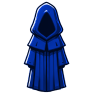
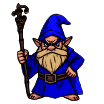
Updates

diff --git a/client/src/subgame.js b/client/src/subgame.js
@@ -10,7 +10,7 @@ const units = {
 		const p0 = verbs.meta.selected();
 		const choice = await verbs.player.choice({
 		    mark: {pos: [p0], units: [undefined], tiles: [undefined]},
-		    enable: {pos: d => d <= 999, units: d => d === 0, tiles: d => d > 0},
+		    enable: {pos: d => d > 0, units: d => d === 0, tiles: d => d > 0},
 		    options: {cancel: 'cancel'},
 		});
 
@@ -96,6 +96,7 @@ const states = {
 	    'spawn-rogue': 'rogue-spawn',
 	    'spawn-hooker': 'hooker-spawn',
 	    'spawn-shooter': 'shooter-spawn',
+	    'spawn-wizard': 'wizard-spawn',
 	};
 	const counts = new Context(options)
 	      .map(val => val.replace('spawn', ['red', 'blue'][verbs.meta.turn()]))
@@ -111,6 +112,7 @@ const states = {
 	rogue: {push: 'push', jump: 'jump', pass: 'pass'},
 	hooker: {pull: 'pull', jump: 'jump', pass: 'pass'},
 	shooter: {destroy: 'destroy', jump: 'jump', shoot: 'shoot', pass: 'pass'},
+	wizard: {destroy: 'destroy', move: 'move', swap: 'swap', jump: 'jump', pass: 'pass'},
     }),
     // -------------------------------------------------------------------------
     spawn: async ctx => {
@@ -231,6 +233,29 @@ const states = {
 
 	await verbs.board.cjump('units', p0, p0);
 	await verbs.board.cjump('units', p1, p3);
+	
+	return 'pass';
+    },
+    swap: async ctx => {
+	const {verbs, unit} = ctx;
+
+	const p0 = verbs.meta.selected();
+	
+	const choice = await verbs.player.choice({
+	    mark: {pos: [p0], units: [undefined]},
+	    enable: {pos: d => d > 0, units: d => d > 0},
+	    options: {cancel: 'cancel'},
+	});
+
+	if (choice === 'cancel') { return unit; }
+
+	const p1 = choice;
+
+	const u0 = verbs.board.get('units', ...p0);
+	const u1 = verbs.board.get('units', ...p1);
+	
+	verbs.board.replace('units', ...p0, u1);
+	await verbs.board.replace('units', ...p1, u0);
 	
 	return 'pass';
     },

diff --git a/client/src/assets.js b/client/src/assets.js
@@ -7,16 +7,13 @@ export const assets = {
     'pass': 'assets/exported/pass.png',
     'destroy': 'assets/exported/destroy.png',
     'jump': 'assets/exported/jump.png',
-    'move': 'assets/exported/move.png',        
+    'move': 'assets/exported/move.png',
+    'swap': 'assets/exported/swap.png',
     'push': 'assets/exported/push.png',
     'pull': 'assets/exported/pull.png',
     'shoot': 'assets/exported/shoot.png',
     'statue': 'assets/exported/statue.png',
-    'ghost-red': 'assets/exported/ghost-red.png',
-    'ghost-blue': 'assets/exported/ghost-blue.png',
     'background': 'assets/exported/background.png',
-    'wizard-red': 'assets/exported/wizard-red.png',
-    'wizard-blue': 'assets/exported/wizard-blue.png',
     'rogue-spawn': 'assets/exported/rogue-spawn.png',
     'rogue-red': 'assets/exported/rogue-red.png',
     'rogue-blue': 'assets/exported/rogue-blue.png',
@@ -31,5 +28,8 @@ export const assets = {
     'portal-blue': 'assets/exported/portal-blue.png',
     'shooter-spawn': 'assets/exported/shooter-spawn.png',
     'shooter-red': 'assets/exported/shooter-red.png',
-    'shooter-blue': 'assets/exported/shooter-blue.png',    
+    'shooter-blue': 'assets/exported/shooter-blue.png',
+    'wizard-spawn': 'assets/exported/wizard-spawn.png',
+    'wizard-red': 'assets/exported/wizard-red.png',
+    'wizard-blue': 'assets/exported/wizard-blue.png',    
 };
